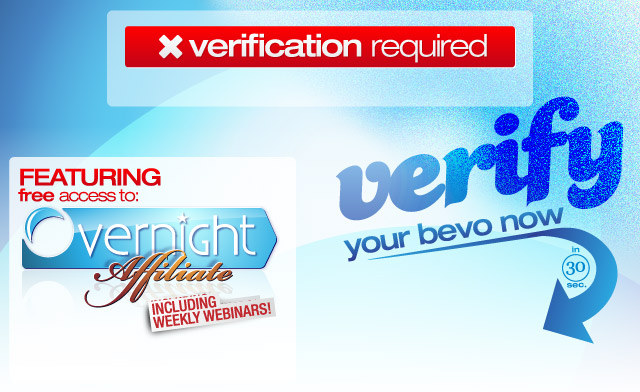
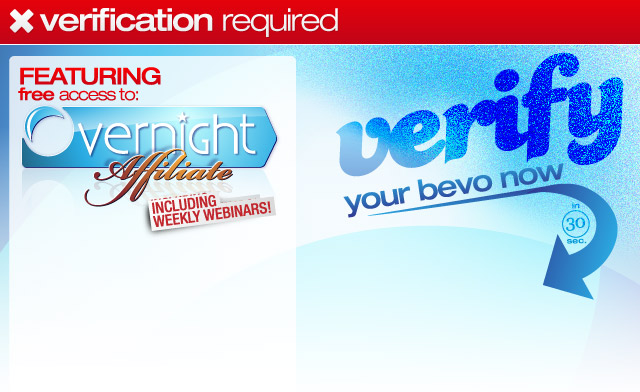
aff: verify lboxes

diff --git a/Themes/BevoMedia/lightbox_style.css b/Themes/BevoMedia/lightbox_style.css
@@ -21,17 +21,18 @@ body { font-family:Helvetica, Arial, sans-serif; color:#333; font-size:75%; back
 	.lpop_verify { background:url(img_new/lpop_verify.jpg) no-repeat; position:relative; border:1px solid #ccc}
 	.lpop_verify.lpop_withvid { background:url(img_new/lpop_verify_withvid.jpg) no-repeat; }
 	
-	.lpop_verify .lpop_veriquired { width:390px; height:33px; position:absolute; top:73px; left:125px; overflow:hidden; }
-		.lpop_verify .lpop_veriquired p { text-align:center; color:#2E3192; font-weight:bold; font-size:.9em; line-height:1em; }	
+	.lpop_verify .lpop_veriquired { width:390px; height:33px; position:absolute; top:9px; left:360px; overflow:hidden; }
+		.lpop_verify .lpop_veriquired p { color:#fff; font-weight:bold; font-size:.9em; line-height:1em; }	
 	.lpop_verify ul.iconlist_qmark { width:265px; height:220px; position:absolute; top:255px; left:58px; overflow:hidden;  }
-	.lpop_verify a.btn_lpop_verify { position:absolute; top:275px; left:340px; }
+	.lpop_verify a.btn_lpop_verify { position:absolute; top:215px; left:340px; }
 	.lpop_verify a.btn_lpop_no_verify { position:absolute; top:420px; left:340px; text-align: center; }
 	
-	.lpop_verify .overaff { width:265px; position:absolute; top:335px; left:20px; }
-		.lpop_verify .overaff p { color:#2E3192; font-size:.8em; line-height:1em; }
-	.lpop_verify .butt { width:600px; padding:5px 0 0; position:absolute; top:425px; left:20px; border-top:1px solid #ccc; }
-		.lpop_verify .butt p { font-size:.8em; color:#808080; line-height:.8em; }
-		.lpop_verify .butt p.title { margin:0; font-size:.9em; color:#0071bc; }
+	.lpop_verify .overaff { width:265px; position:absolute; top:245px; left:20px; }
+		.lpop_verify .overaff p { color:#2E3192; font-size:.9em; line-height:1.2em; }
+
+	.lpop_verify .butt { width:600px; padding:10px 0 0; position:absolute; top:385px; left:20px; border-top:1px solid #ccc; }
+		.lpop_verify .butt p { font-size:.9em; color:#808080; line-height:1em; }
+		.lpop_verify .butt p.title { margin:0 0 5px; font-size:1em; color:#0071bc; }
 	
 		/*withvid*/
         	.lpop_verify.lpop_withvid .lpop_veriquired { top:73px; left:20px; }
@@ -88,6 +89,8 @@ body { font-family:Helvetica, Arial, sans-serif; color:#333; font-size:75%; back
 			.lpop_cart .lpop_cartbox.last { border:none; margin:0; padding:0; }			
 			.lpop_cart .lpop_cartbox.last p { float:left; }			
 			.lpop_cart .lpop_cartbox a.btn_lpop_paynow { float:right; }
+
+
 
 
 

diff --git a/Applications/BevoMedia/Modules/Publisher/Views/VerifyAdwords.view.php b/Applications/BevoMedia/Modules/Publisher/Views/VerifyAdwords.view.php
@@ -123,8 +123,10 @@ li, div { font-family: Arial; font-size: 13px; }
 
 	<div class="clear"></div>
 	
-	<div class="butt"> 
-		<p><strong>What is account verification?</strong> As soon as you become a verified user, you can start tracking keyword and campaign performance with exact revenue and expense data, use the Geo- and Day-Targeting features, access the Premium Research Tools, instantly retrieve offer tracking links from your affiliate networks, and all stats will sync automatically. <a href="#" onclick="parent.Shadowbox.close();">No thanks, I'll continue with the limited, free version of Bevo Media.</a></p>
+	<div class="butt">
+		<p class="title">What is account verification?</p>
+		<p>As soon as you become a verified user, you can start tracking keyword and campaign performance with exact revenue and expense data, use the Geo- and Day-Targeting features, access the Premium Research Tools, instantly retrieve offer tracking links from your affiliate networks, and all stats will sync automatically.<br />
+		<small><a href="#" onclick="parent.Shadowbox.close();">No thanks, I'll continue with the limited, free version of Bevo Media.</a></small></p>
 	</div>
 
 </div><!--close lpop_verify-->

diff --git a/Applications/BevoMedia/Modules/Publisher/Views/VerifyPPC.view.php b/Applications/BevoMedia/Modules/Publisher/Views/VerifyPPC.view.php
@@ -123,8 +123,10 @@ li, div { font-family: Arial; font-size: 13px; }
 
 	<div class="clear"></div>
 	
-	<div class="butt"> 
-		<p><strong>What is account verification?</strong> As soon as you become a verified user, you can start tracking keyword and campaign performance with exact revenue and expense data, use the Geo- and Day-Targeting features, access the Premium Research Tools, instantly retrieve offer tracking links from your affiliate networks, and all stats will sync automatically. <a href="#" onclick="parent.Shadowbox.close();">No thanks, I'll continue with the limited, free version of Bevo Media.</a></p>
+	<div class="butt">
+		<p class="title">What is account verification?</p>
+		<p>As soon as you become a verified user, you can start tracking keyword and campaign performance with exact revenue and expense data, use the Geo- and Day-Targeting features, access the Premium Research Tools, instantly retrieve offer tracking links from your affiliate networks, and all stats will sync automatically.<br />
+		<small><a href="#" onclick="parent.Shadowbox.close();">No thanks, I'll continue with the limited, free version of Bevo Media.</a></small></p>
 	</div>
 
 </div><!--close lpop_verify-->

diff --git a/Applications/BevoMedia/Modules/Publisher/Views/VerifyPPVSpy.view.php b/Applications/BevoMedia/Modules/Publisher/Views/VerifyPPVSpy.view.php
@@ -125,8 +125,10 @@ li, div { font-family: Arial; font-size: 13px; }
 
 	<div class="clear"></div>
 	
-	<div class="butt"> 
-		<p><strong>What is account verification?</strong> As soon as you become a verified user, you can start tracking keyword and campaign performance with exact revenue and expense data, use the Geo- and Day-Targeting features, access the Premium Research Tools, instantly retrieve offer tracking links from your affiliate networks, and all stats will sync automatically. <a href="#" onclick="parent.Shadowbox.close();">No thanks, I'll continue with the limited, free version of Bevo Media.</a></p>
+	<div class="butt">
+		<p class="title">What is account verification?</p>
+		<p>As soon as you become a verified user, you can start tracking keyword and campaign performance with exact revenue and expense data, use the Geo- and Day-Targeting features, access the Premium Research Tools, instantly retrieve offer tracking links from your affiliate networks, and all stats will sync automatically.<br />
+		<small><a href="#" onclick="parent.Shadowbox.close();">No thanks, I'll continue with the limited, free version of Bevo Media.</a></small></p>
 	</div>
 
 </div><!--close lpop_verify-->

diff --git a/Applications/BevoMedia/Modules/Publisher/Views/VerifySelfHosted.view.php b/Applications/BevoMedia/Modules/Publisher/Views/VerifySelfHosted.view.php
@@ -123,8 +123,10 @@ li, div { font-family: Arial; font-size: 13px; }
 
 	<div class="clear"></div>
 	
-	<div class="butt"> 
-		<p><strong>What is account verification?</strong> As soon as you become a verified user, you can start tracking keyword and campaign performance with exact revenue and expense data, use the Geo- and Day-Targeting features, access the Premium Research Tools, instantly retrieve offer tracking links from your affiliate networks, and all stats will sync automatically. <a href="#" onclick="parent.Shadowbox.close();">No thanks, I'll continue with the limited, free version of Bevo Media.</a></p>
+	<div class="butt">
+		<p class="title">What is account verification?</p>
+		<p>As soon as you become a verified user, you can start tracking keyword and campaign performance with exact revenue and expense data, use the Geo- and Day-Targeting features, access the Premium Research Tools, instantly retrieve offer tracking links from your affiliate networks, and all stats will sync automatically.<br />
+		<small><a href="#" onclick="parent.Shadowbox.close();">No thanks, I'll continue with the limited, free version of Bevo Media.</a></small></p>
 	</div>
 
 </div><!--close lpop_verify-->

diff --git a/Applications/BevoMedia/Modules/Publisher/Views/VerifyResearch.view.php b/Applications/BevoMedia/Modules/Publisher/Views/VerifyResearch.view.php
@@ -87,8 +87,10 @@ li, div { font-family: Arial; font-size: 13px; }
 
 	<div class="clear"></div>
 	
-	<div class="butt"> 
-		<p><strong>What is account verification?</strong> As soon as you become a verified user, you can start tracking keyword and campaign performance with exact revenue and expense data, use the Geo- and Day-Targeting features, access the Premium Research Tools, instantly retrieve offer tracking links from your affiliate networks, and all stats will sync automatically. <a href="#" onclick="parent.Shadowbox.close();">No thanks, I'll continue with the limited, free version of Bevo Media.</a></p>
+	<div class="butt">
+		<p class="title">What is account verification?</p>
+		<p>As soon as you become a verified user, you can start tracking keyword and campaign performance with exact revenue and expense data, use the Geo- and Day-Targeting features, access the Premium Research Tools, instantly retrieve offer tracking links from your affiliate networks, and all stats will sync automatically.<br />
+		<small><a href="#" onclick="parent.Shadowbox.close();">No thanks, I'll continue with the limited, free version of Bevo Media.</a></small></p>
 	</div>
 
 </div><!--close lpop_verify-->
